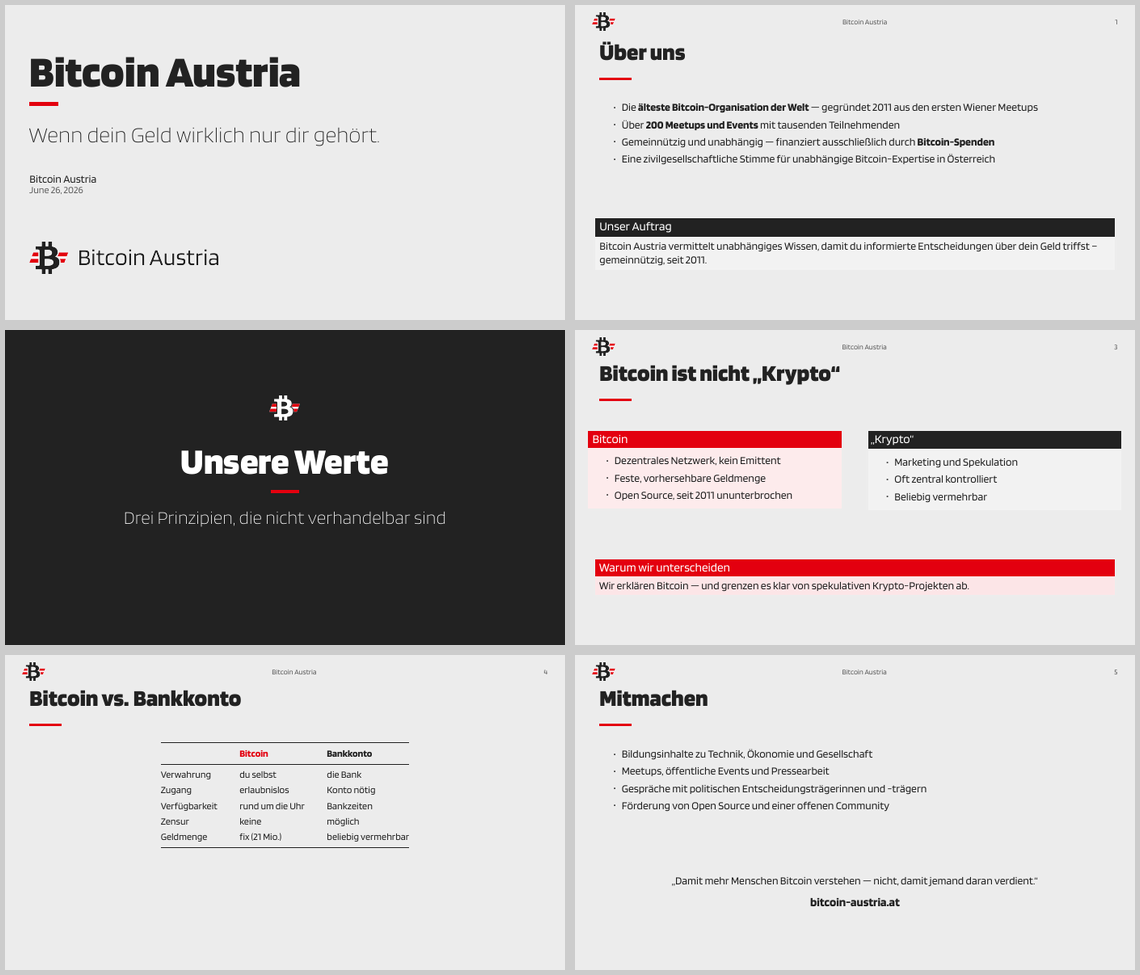
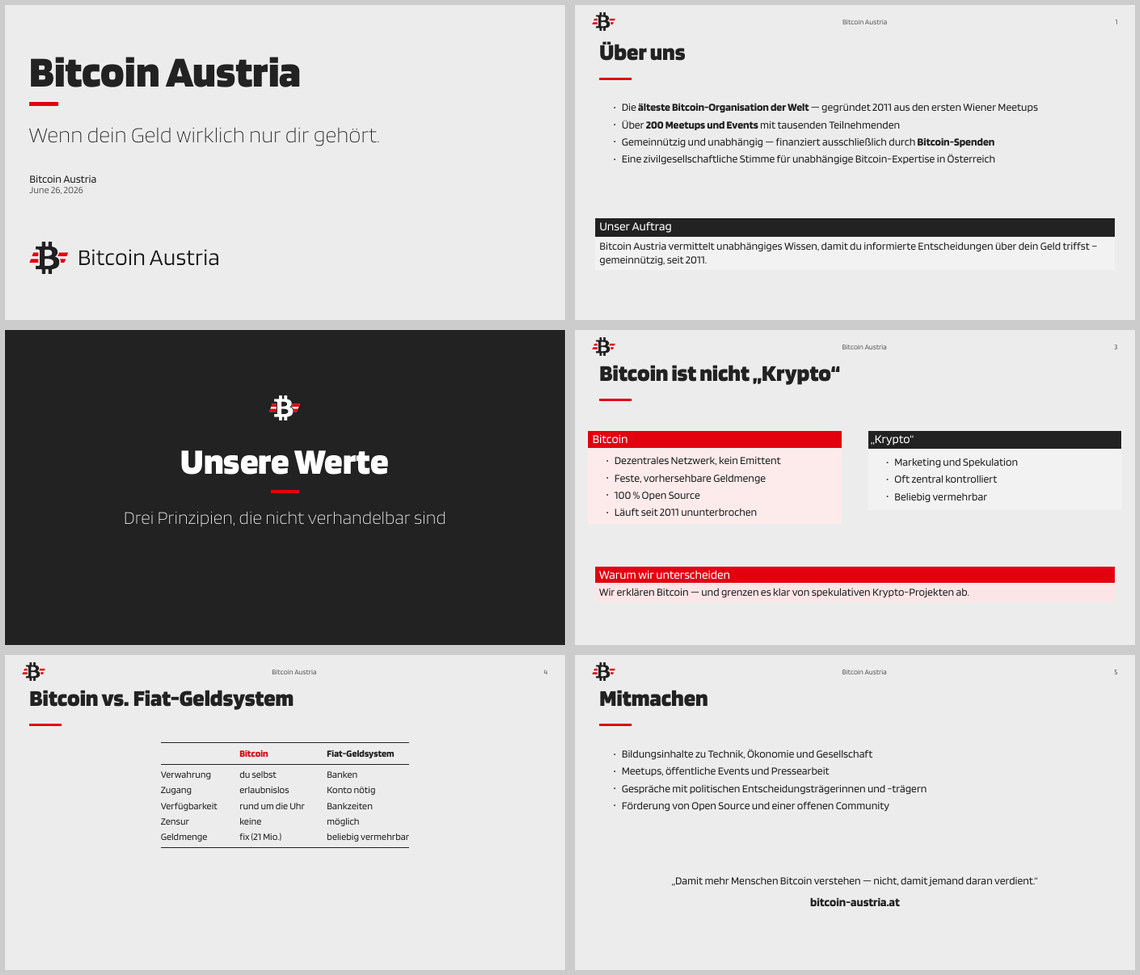
demo: Fiat-Geldsystem (not Bankkonto); split open-source point
- the comparison column is the fiat money system (money supply IS arbitrarily
  inflatable there, unlike a single bank account balance)
- '100% Open Source' and 'runs since 2011' as two separate points

Changed region(s): [[0.5219, 0.4923, 0.9825, 0.6154], [0.1228, 0.7077, 0.2763, 0.7385], [0.2763, 0.7692, 0.3377, 0.8]]

diff --git a/example/demo.tex b/example/demo.tex
@@ -61,7 +61,8 @@
     \begin{itemize}
       \item Dezentrales Netzwerk, kein Emittent
       \item Feste, vorhersehbare Geldmenge
-      \item Open Source, seit 2011 ununterbrochen
+      \item 100\,\% Open Source
+      \item Läuft seit 2011 ununterbrochen
     \end{itemize}}%
   {„Krypto“}{%
     \begin{itemize}
@@ -73,10 +74,10 @@
     Wir erklären Bitcoin — und grenzen es klar von spekulativen
     Krypto-Projekten ab.}
 
-\begin{frame}{Bitcoin vs. Bankkonto}
+\begin{frame}{Bitcoin vs. Fiat-Geldsystem}
   \centering
-  \comparisontable{Bitcoin}{Bankkonto}{%
-    Verwahrung    & du selbst         & die Bank \\
+  \comparisontable{Bitcoin}{Fiat-Geldsystem}{%
+    Verwahrung    & du selbst         & Banken \\
     Zugang        & erlaubnislos      & Konto nötig \\
     Verfügbarkeit & rund um die Uhr   & Bankzeiten \\
     Zensur        & keine             & möglich \\